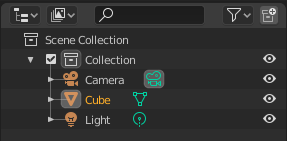
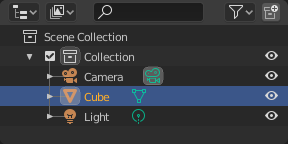
Update Outliner editor
git-svn-id: https://svn.blender.org/svnroot/bf-manual/trunk@5729 c4de1f47-6596-e411-a384-0024e86c2797

diff --git a/blender_docs/manual/editors/outliner.rst b/blender_docs/manual/editors/outliner.rst
@@ -21,69 +21,135 @@ The *Outliner* can be used to:
 - Enable or disable the rendering of an object.
 - Delete objects from the scene.
 - Unlink data (equivalent to pressing the *X* button next to the name of a data-block).
+- Manage collections in the scene.
 
 .. (TODO) create new objects by drag & drop from the outliner
-   drag & drop objects to groups
 
-Each row in the *Outliner* shows a data-block. You can click the plus sign to
+Each row in the *Outliner* shows a data-block. You can :kbd:`LMB` click the disclosure triangle to
 the left of a name to expand the current data-block and see what other data-blocks it contains.
-
-You can select data-blocks in the *Outliner*,
-but this will not necessarily select the data-block in the scene.
-To select the data-block in the scene, you have to activate it.
-
+Holding :kbd:`Shift` when clicking on the disclosure triangle will expand child data-blocks
+recursively. :kbd:`LMB` Clicking and dragging along disclosure triangles will expand or collapse multiple
+data-blocks.
 
 Selecting and Activating
 ========================
 
-Single selection does not require any pre-selection: just work directly with :kbd:`LMB`
-(and/or the `context menu`_, see below) *inside* the name/icon area.
-
-When you select an object in the list this way,
-it is selected and becomes the active object in all other 3D Views.
-
-
-Selecting a Group of Data-Blocks
---------------------------------
-
-.. figure:: /images/editors_outliner_column-icons.png
+.. figure:: /images/editors_outliner_selection.png
    :align: right
 
-   Selection of a data-block.
+   Selected data-blocks with the Cube active.
 
-Useful when you want to select/deselect a whole bunch of data-blocks.
-For this you must prepare the selection using, to your liking:
+Selection is done with :kbd:`LMB` (and/or the `context menu`_, see below) on the row
+of a data-block outside the the name/icon area. Single selections will also activate the
+data-block. The rows of selected data-blocks are highlighted blue, with the active data-block
+highlighted in a lighter blue.
 
-- :kbd:`RMB` or :kbd:`LMB`,
-- :kbd:`Shift-RMB` or :kbd:`Shift-LMB`,
-- :kbd:`RMB` and drag or :kbd:`LMB` and drag,
+Clicking in empty space below the list of data-blocks will deselect all.
 
-all *outside* the name/icon area. Those pre-selected have their line in a lighter color.
-You then can (de)select them with an :kbd:`RMB`-click *on* the name/icon area,
-which brings on a context menu (see below). :kbd:`A` to select/deselect all open items.
+.. note::
+   By default, selecting data-blocks in the outliner will select the respective objects,
+   bones, and sequences in the 3D view and Sequencer. Selections in the 3D view and Sequencer
+   will be synced to each Outliner. To disable selection syncing, turn off the toggle in the
+   `filter`_ popover.
+
+Children of a data-block can also be selected by clicking the icon that is displayed to
+the right of the parent data-block's name.
+
+Selecting Multiple Data-Blocks
+------------------------------
+
+Extend the selection one data-block at a time using :kbd:`Ctrl-LMB`. Each data-block added
+to the selection this way will be made the active data-block.
+
+Select a range of elements from the active element using :kbd:`Shift-LMB`. To select a
+range without deselecting the previous selection, use :kbd:`Ctrl-Shift-LMB`.
+
+A click and drag from any location in the Outliner other than a name or icon will begin
+a box selection. Use :kbd:`Shift` to add and :kbd:`Ctrl` to subtract from existing
+selections with box select. Box select can also be started with :kbd:`B`.
+
+To select all items use :kbd:`A`; :kbd:`Alt-A` will deselect all items.
+
+The keyboard arrow keys can be used to navigate and select in the Outliner. Keyboard
+selection and navigation starts from the active data-block, but does not change the
+active data-block.
+
+.. list-table::
+   :widths: 10 90
+
+   * - :kbd:`Up`
+     - Select the previous element in the list.
+   * - :kbd:`Down`
+     - Select the next element in the list.
+   * - :kbd:`Shift-Up`
+     - Select the previous element without deselecting
+   * - :kbd:`Shift-Down`
+     - Select the next element without deselecting
+   * - :kbd:`Left`
+     - Close the data-block
+   * - :kbd:`Right`
+     - Open the data-block to view children
+   * - :kbd:`Shift-Left`
+     - Close this and all child data-blocks
+   * - :kbd:`Shift-Right`
+     - Open this and all child data-blocks
 
 
-Activating a Data-Block
------------------------
+Toggling Interaction Modes
+==========================
 
-To "activate" the data-block with :kbd:`LMB` on the *icon* of the data-block.
-Activating the data-block will automatically switch to the relevant mode.
-For example, activating the mesh data of the cube will select the cube
-and enter *Edit Mode* while activating the object data of
-the cube will select the cube and enter *Object Mode* (see right).
+Selecting some data-blocks with :kbd:`LMB` will toggle into the relevant interaction
+mode. For example, selecting the mesh data of the cube will select the cube and
+enter *Edit Mode*. Selecting the data-block again will toggle back into *Object Mode*
 
 If the data-block type supports multi-editing,
 you can use :kbd:`Shift` to add/remove objects from the edit mode.
 
 
+Relations Management
+====================
+
+.. figure:: /images/editors_outliner_relations.png
+   :align: right
+
+   Linking objects to a collection.
+
+Data-blocks can be dragged and dropped to manage data relations in the Outliner. To
+begin a drag and drop, :kbd:`LMB` click and drag from the name or icon of a data-block.
+
+Objects can be moved to collections by dropping on the name or contents
+of a collection. To link an object to a collection, hold :kbd:`Ctrl` while dropping.
+
+To set parent-child relations between objects, drop an object onto another object while
+holding :kbd:`Shift`.
+
+.. Note::
+   Drag and drop will attempt to operate on the entire selection. Selected data-blocks
+   that are incompatible with the operation will remain unmodified.
+
+
+Context Menu
+============
+
+Show the context menu for a data-block with :kbd:`RMB` on the icon or name.
+Depending on the type of the pre-selected data-block(s), you will have all or part of the following options:
+
+Copy/Paste
+   Copy/pastes selected data-blocks.
+Delete
+   Deletes the selected data-block.
+Select, Select Hierarchy, Deselect
+   Add object to current selection without making it the active one.
+
+
 .. _editors-outliner-collections:
 
 Collections
-===========
+-----------
 
 Collections are a way Blender uses to organize scenes.
 Collections contain objects and everything thing else in a scene.
-They can be include collections themselves and are fully recursive.
+They can include collections themselves and are fully recursive.
 
 .. seealso::
 
@@ -116,19 +182,6 @@ View Layer
       Disables/Enables the collection from the view layer.
 
 
-Context Menu
-============
-
-Show the context menu for a data-block with :kbd:`RMB` on the icon or name.
-Depending on the type of the pre-selected data-block(s), you will have all or part of the following options:
-
-Copy/Paste
-   Copy/pastes selected data-blocks.
-Delete
-   Deletes the selected data-block.
-Select, Select Hierarchy, Deselect
-   Add object to current selection without making it the active one.
-
 
 ID Data Menu
 ------------
@@ -149,7 +202,7 @@ Copy/Paste
 Add Fake User, Clear Fake User
    Adds a "dummy" (fake) user so that the selected data-block always gets saved even if it has no users.
    The fake user can be removed with *Clear Fake User*.
-Rename :kbd:`Ctrl-LMB`
+Rename :kbd:`F2`
    Renames the selected data-block.
 Select Linked
    Selects the linked data, see :ref:`bpy.ops.object.select_linked` for more information.
@@ -180,7 +233,7 @@ The following toggles, in the right side of the *Outliner* editor,
 are available for collections, objects, bones, modifiers and constraints.
 
 By default only the temporary viewport visibility is enabled.
-The other options can be enabled in the *Restriction Toggles* option in the Outliner filter.
+The other options can be enabled in the *Restriction Toggles* option in the Outliner `filter`_.
 
 - Holding :kbd:`Shift` sets or unsets the value to all its child collections or objects.
 - Holding :kbd:`Ctrl` isolates the object or collection, so they are the only ones with its value set.
@@ -256,11 +309,17 @@ Restriction Toggles
 Sort Alphabetically
    Sort the entries alphabetically.
 
+Sync Selection
+   Sync outliner selection to and from the :doc:`3D View </editors/3dview/index>` and
+   :doc:`Sequencer </video_editing/index>` editors. Disable to manage collections, object
+   relations, and scene data without changing the selection state. Selection syncing is
+   only available in Scenes, View Layer, and Sequence display modes.
+
 Collections
    List the objects and collections under
    the :doc:`collection hierarchy </scene_layout/collections/index>` of the scene.
    Objects may appear in more than one collection.
-Objects
+ObjectsSequencer
    List of all the objects, respecting the other filter options.
    Disabled only if you need an overview of the collections without the objects.
 Object State
@@ -268,7 +327,9 @@ Object State
       The default option, no restrictions.
    Visible
       List only the objects visible in the viewports.
-      The global and temporary visibility settings are taken into considerations.
+      The global and temporary visibility settings are taken into consideration.
+   Invisible
+      List only the objects not visible in the viewports
    Selected
       Lists the object(s) that are currently selected in the 3D View.
       See :doc:`selecting in the 3D View </scene_layout/object/selecting>` for more information.

diff --git a/blender_docs/manual/interface/controls/buttons/eyedropper.rst b/blender_docs/manual/interface/controls/buttons/eyedropper.rst
@@ -13,7 +13,7 @@ Color Ramp
    Dragging the cursor over the window to sample a line which is converted into a color ramp.
 Objects/Object-Data
    This is used with object buttons (such as parent, constraints or modifiers) to
-   select an object from the 3D View.
+   select an object from the 3D View or Outliner.
 Camera Depth
    Number fields effecting distance can also use the eyedropper.
 
